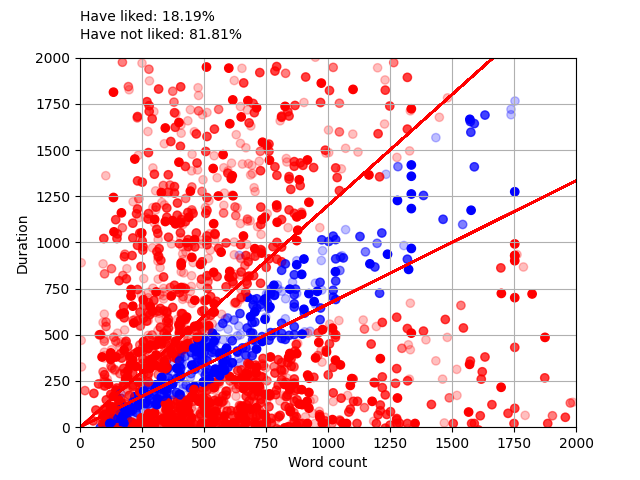
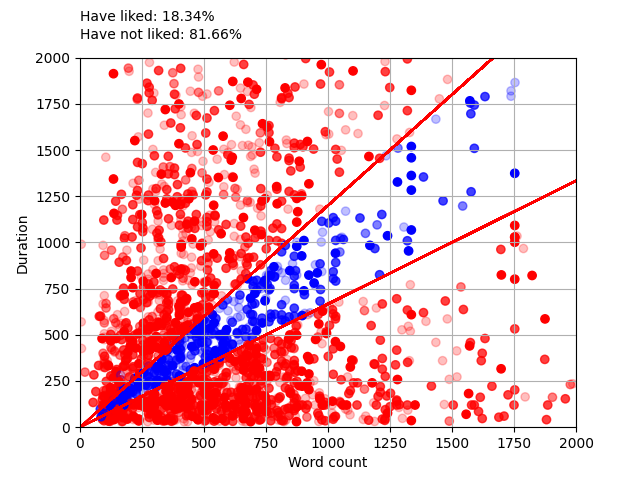
Added offset in time spent for difference in fk_difficulty and cefr level.

diff --git a/tools/_playground.py b/tools/_playground.py
@@ -72,12 +72,31 @@ def plot_urs_with_duration_and_word_count(df, have_read_sessions, file_name):
     print("Saving file: " + file_name + ".png")
     plt.show()
 
+def switch_difficulty(number):
+    result = 0
+
+    if 0 <= number <= 10:
+        result = 1
+    elif 11 <= number <= 20:
+        result = 2
+    elif 21 <= number <= 30:
+        result = 3
+    elif 31 <= number <= 40:
+        result = 4
+    elif 41 <= number <= 50:
+        result = 5
+    elif 51 <= number <= 100:
+        result = 6
+
+    return result
+
 def get_all_user_reading_sessions():
     sessions = {}
     have_read_sessions = 0
 
     query_data = (
         UserReadingSession.query
+            #.filter_by(user_id = 534)
             .filter(UserReadingSession.article_id.isnot(None))
             .filter(UserReadingSession.duration >= 30000) # 30 seconds
             .filter(UserReadingSession.duration <= 3600000) # 1 hour
@@ -113,13 +132,34 @@ def get_all_user_reading_sessions():
         should_spend_reading_lower_bound = get_expected_reading_time(sessions[session]['word_count'], 20)
         should_spend_reading_upper_bound = get_expected_reading_time(sessions[session]['word_count'], -20)
 
-        #user_level = UserLanguage.query.filter_by(user_id = user_id, language_id=sessions[(user_id, article_id)]['language']).first()
+        user_level = UserLanguage.query.filter_by(user_id = user_id, language_id=sessions[(user_id, article_id)]['language']).filter(UserLanguage.cefr_level.isnot(None)).with_entities(UserLanguage.cefr_level).first()
+        if user_level is None or user_level[0] == 0 or user_level[0] is None or user_level[0] == [] or user_level == []:
+            usr_lvl = 1
+        else:
+            usr_lvl = user_level[0]
+        
+        #print(sessions[(user_id, article_id)]['language'], usr_lvl)
+      
 
+
+        diff = sessions[session]['difficulty']
+
+
+        calcDiff = switch_difficulty(diff)
+        
+        
+        if calcDiff > usr_lvl:
+            diff = 1 + ((calcDiff - usr_lvl) / 10)
+        elif calcDiff < usr_lvl:
+            diff = 1 - ((usr_lvl - calcDiff) / 10)
+        else:
+            diff = 1
     
+        
 
         timesTranslated = translated_words_per_article(user_id, article_id)
-        userDurationWithTranslated = sessions[session]['user_duration'] - (timesTranslated * 3)
-        sessions[session]['user_duration'] = userDurationWithTranslated
+        userDurationWithTranslated = (sessions[session]['user_duration'] - (timesTranslated * 3)) # * diff
+        sessions[session]['user_duration'] = userDurationWithTranslated 
         
         if userDurationWithTranslated <= should_spend_reading_upper_bound and userDurationWithTranslated >= should_spend_reading_lower_bound and sessions[session]['liked'] == 0:
             have_read_sessions += 1
